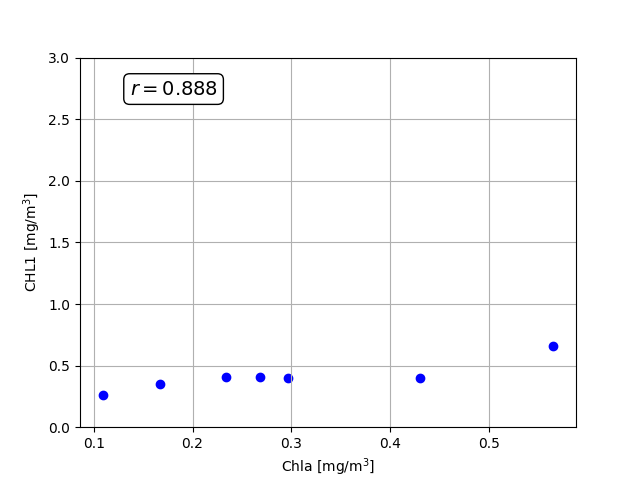
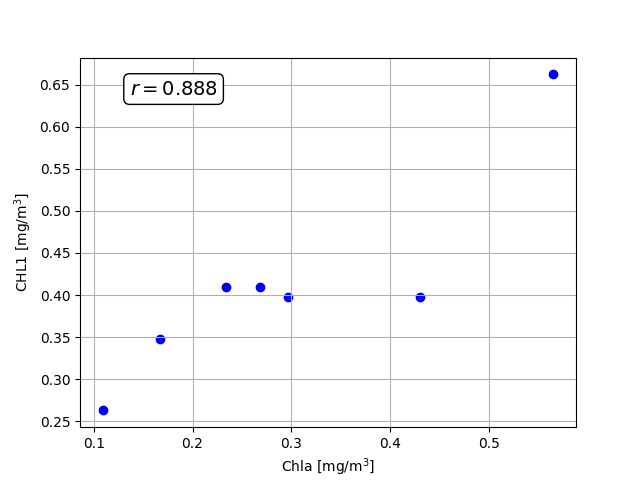
adjusted y-lims for the correlation plots

diff --git a/assignment10/correlate.py b/assignment10/correlate.py
@@ -14,7 +14,7 @@ ax.scatter(df["Chla_[mg/m3]_ref"], df["CHL1_mean_mean"], color='blue')
 ax.set_xlabel(r"Chla [mg/m$^3$]")
 ax.set_ylabel(r"CHL1 [mg/m$^3$]")
 #ax.set_xlim(0,1.3)
-ax.set_ylim(0,12.5)
+#ax.set_ylim(0,12.5)
 ax.annotate(fr"$r = {r}$", xy=(0.1,0.9),xycoords='axes fraction', fontsize=14,bbox=dict(facecolor='white', edgecolor='black', boxstyle='round,pad=0.3'))
 ax.grid()
 fig.savefig("correlation-plot-eustrophic.png")
@@ -29,7 +29,7 @@ ax.set_xlabel(r"Chla [mg/m$^3$]")
 ax.set_ylabel(r"CHL1 [mg/m$^3$]")
 #ax.set_xlim(0,1.3)
 ax.grid()
-ax.set_ylim(0,3)
+#ax.set_ylim(0,3)
 
 ax.annotate(fr"$r = {r}$", xy=(0.1,0.9),xycoords='axes fraction', fontsize=14, bbox=dict(facecolor='white', edgecolor='black', boxstyle='round,pad=0.3'))
 fig.savefig("correlation-plot-mesotrophic.png")
